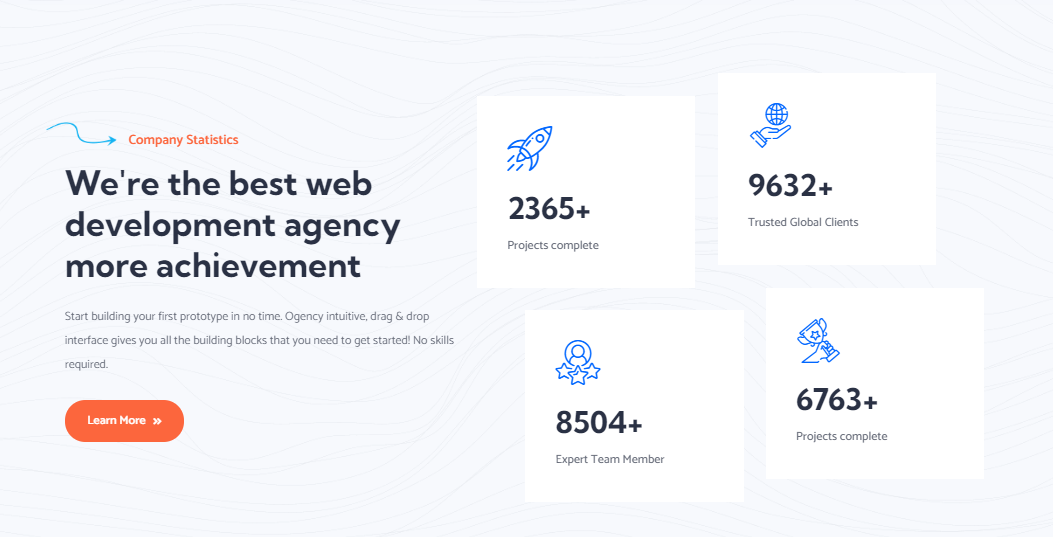
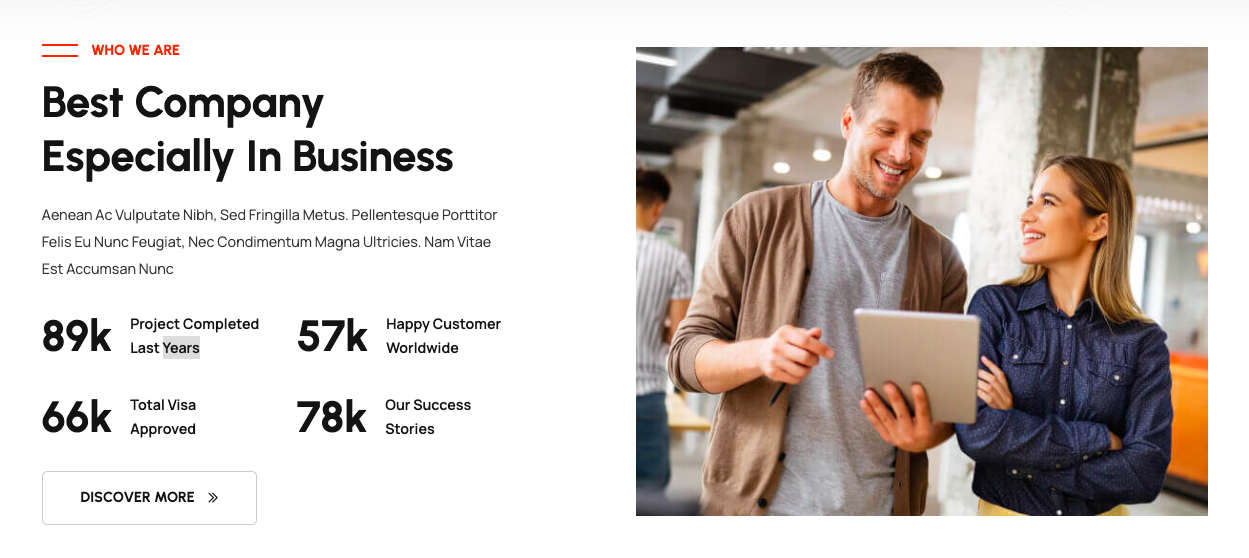
Home page update

diff --git a/public/assets/frontend/sass/style.css b/public/assets/frontend/sass/style.css
@@ -5618,6 +5618,9 @@ About Company CSS
 /*==========================================================================
 Company Two CSS
 ==========================================================================*/
+.company__two{
+    background: var(--color-6);
+}
 .company__two-left-title h2 {
   max-width: 460px;
   margin-bottom: 20px;
@@ -10597,7 +10600,7 @@ Contact Three CSS
   width: 100%;
   height: 640px;
   display: block;
-  filter: grayscale(1);
+  /*filter: grayscale(1);*/
 }
 
 /*==========================================================================

diff --git a/resources/views/welcome.blade.php b/resources/views/welcome.blade.php
@@ -284,41 +284,41 @@
 
     @if(count($latestServices) > 0)
         <div class="portfolio__area section-padding pb-0">
-        <div class="container-fluid p-0">
-            <div class="row mb-60">
-                <div class="col-xl-12">
-                    <div class="portfolio__area-title t-center">
-                        <span class="subtitle-one">What we provide</span>
-                        <h2>Our Best Services</h2>
+            <div class="container-fluid p-0">
+                <div class="row mb-60">
+                    <div class="col-xl-12">
+                        <div class="portfolio__area-title t-center">
+                            <span class="subtitle-one">What we provide</span>
+                            <h2>Our Best Services</h2>
+                        </div>
                     </div>
                 </div>
-            </div>
-            <div class="row">
-                <div class="col-xl-12">
-                    <div class="portfolio dark__image">
-                        @foreach(@$latestServices as $index=>$service)
-                            <div class="portfolio-item {{$index==1?'active':''}}">
-                            <img src="{{asset('/images/service/thumb/thumb_'.@$service->banner_image)}}" alt="">
-                            <div class="portfolio-item-inner">
-                                <div class="portfolio-item-inner-title">
-                                    <h4>{{ucwords(@$service->title)}}</h4>
-                                    <span>Life International</span>
-                                </div>
-                                <div class="portfolio-item-inner-icon">
-                                    <a href="{{route('service.single',$service->slug)}}"><i class="fal fa-long-arrow-up"></i></a>
+                <div class="row">
+                    <div class="col-xl-12">
+                        <div class="portfolio dark__image">
+                            @foreach(@$latestServices as $index=>$service)
+                                <div class="portfolio-item {{$index==1?'active':''}}">
+                                <img src="{{asset('/images/service/thumb/thumb_'.@$service->banner_image)}}" alt="">
+                                <div class="portfolio-item-inner">
+                                    <div class="portfolio-item-inner-title">
+                                        <h4>{{ucwords(@$service->title)}}</h4>
+                                        <span>Life International</span>
+                                    </div>
+                                    <div class="portfolio-item-inner-icon">
+                                        <a href="{{route('service.single',$service->slug)}}"><i class="fal fa-long-arrow-up"></i></a>
+                                    </div>
                                 </div>
                             </div>
+                            @endforeach
                         </div>
-                        @endforeach
                     </div>
                 </div>
             </div>
         </div>
-    </div>
     @endif
 
     @if(@$recruitments[0]->heading)
-        <div class="work__area section-padding pb-0">
+        <div class="work__area section-padding">
             <div class="container">
                 <div class="row mb-70">
                     <div class="col-xl-12">
@@ -346,6 +346,95 @@
             </div>
         </div>
     @endif
+    @if(!empty($homepage_info->why_heading))
+        <div class="company__two dark__image section-padding">
+            <div class="container">
+                <div class="row align-items-center">
+                    <div class="col-xl-6 col-lg-7 lg-mb-30">
+                        <div class="company__two-left">
+                            <div class="company__two-left-title">
+                                <span class="subtitle-one">{{ucwords(@$homepage_info->why_subheading)}}</span>
+                                <h2>{{ucwords(@$homepage_info->why_heading)}}</h2>
+                                <p>{{ucfirst(@$homepage_info->why_description)}}</p>
+                            </div>
+                            <div class="company__two-left-skill">
+                                <div class="company__two-left-skill-item">
+                                    <h2><span class="counter">{{@$homepage_info->project_completed ?? '450'}}</span></h2>
+                                    <h6>Project Completed Overall</h6>
+                                </div>
+                                <div class="company__two-left-skill-item">
+                                    <h2><span class="counter">{{@$homepage_info->visa_approved ?? '340'}}</span></h2>
+                                    <h6>Total Visa Approved</h6>
+                                </div>
+                            </div>
+                            <div class="company__two-left-skill">
+                                <div class="company__two-left-skill-item">
+                                    <h2><span class="counter">{{@$homepage_info->happy_clients}}</span></h2>
+                                    <h6>Happy Clients All Over</h6>
+                                </div>
+                                <div class="company__two-left-skill-item">
+                                    <h2><span class="counter">{{@$homepage_info->success_stories}}</span></h2>
+                                    <h6>Our Success Stories</h6>
+                                </div>
+                            </div>
+                            @if(@$homepage_info->why_button)
+                                <a class="btn-two" href="{{@$homepage_info->why_link}}">{{@$homepage_info->why_button}}<i class="far fa-chevron-double-right"></i></a>
+                            @endif
+                        </div>
+                    </div>
+                    <div class="col-xl-6 col-lg-5">
+                        <div class="company__two-right dark__image t-right">
+                            <img class="img__full" src="{{asset('/images/home/welcome/'.@$homepage_info->what_image5)}}" alt="">
+                        </div>
+                    </div>
+                </div>
+            </div>
+        </div>
+    @endif
+
+    @if(@$setting_data->grievance_heading)
+        <div class="contact__three section-padding">
+            <div class="container">
+                <div class="row align-items-center">
+                    <div class="col-xl-6 col-lg-6 lg-mb-30">
+                        <div class="contact__three-left mr-40 xl-mr-0">
+                            <div class="contact__three-left-map">
+                                @if(@$setting_data->google_map)
+                                    <iframe src="{{@$setting_data->google_map}}" style="border:0;" allowfullscreen="" loading="lazy"></iframe>
+                                @endif
+                            </div>
+                        </div>
+                    </div>
+                    <div class="col-xl-6 col-lg-6">
+                        <div class="contact__three-righ">
+                            <div class="contact__three-right-title">
+                                <span class="subtitle-one">Life International Overseas</span>
+                                <h2 class="mb-30">{{ucwords(@$setting_data->grievance_heading)}}</h2>
+                            </div>
+                            <div class="contact__three-right-form">
+                                <form>
+                                    <div class="row">
+                                        <div class="col-md-12">
+                                            <div class="about__one-right-title">
+                                                <p> {{ ucfirst(@$setting_data->grievance_description) }}</p>
+                                            </div>
+                                            @if(@$setting_data->grievance_button)
+                                                <div class="contact__two-right-form-item">
+                                                    <a href="{{@$setting_data->grievance_link}}" class="btn-one" type="submit">
+                                                        {{ucwords(@$setting_data->grievance_button)}} <i class="far fa-chevron-double-right"></i></a>
+                                                </div>
+                                            @endif
+                                        </div>
+                                    </div>
+                                </form>
+                            </div>
+                        </div>
+                    </div>
+                </div>
+            </div>
+        </div>
+    @endif
+
 
     <div class="testimonial__area section-padding">
         <img class="testimonial__area-shape dark-n" src="assets/img/shape/testimonial.png" alt="">
@@ -442,92 +531,6 @@
         </div>
     </div>
     <!-- Testimonial Area End -->
-    <!-- Get In Touch Start End -->
-    <div class="getIn__touch section-padding" data-background="assets/img/pages/getInTouch.jpg">
-        <img class="getIn__touch-shape left-right-animate2" src="assets/img/shape/getInTouch.png" alt="">
-        <div class="container">
-            <div class="row">
-                <div class="col-xl-6 col-lg-5 lg-mb-30">
-                    <div class="getIn__touch-left">
-                        <div class="getIn__touch-left-title">
-                            <span class="subtitle-one">Get In Touch</span>
-                            <h2>Free Consultation</h2>
-                        </div>
-                        <div class="getIn__touch-left-form">
-                            <form action="#">
-                                <div class="mt-25">
-                                    <input type="text" name="name" placeholder="Full Name" required="required">
-                                </div>
-                                <div class="mt-25">
-                                    <input type="email" name="email" placeholder="Email Address" required="required">
-                                </div>
-                                <div class="mt-25">
-                                    <input type="text" name="subject" placeholder="Subject" required="required">
-                                </div>
-                                <div class="mt-25">
-                                    <button class="btn-one" type="submit">Free Consulting</button>
-                                </div>
-                            </form>
-                        </div>
-                    </div>
-                </div>
-                <div class="col-xl-6 col-lg-7">
-                    <div class="getIn__touch-right">
-                        <div class="getIn__touch-right-title">
-                            <h2>We serving 30% Of Global 600 Companies</h2>
-                            <p>Aenean a felis consequat, varius orci ut, varius metus. Donec iaculis leo turpis, vitae sagittis massa luctus feugiat. Donec vel sodales dui,</p>
-                        </div>
-                        <div class="getIn__touch-right-bottom">
-                            <div class="getIn__touch-right-bottom-text">
-                                <h4>client satisfaction in the globaly</h4>
-                            </div>
-                            <div class="getIn__touch-right-bottom-shape">
-                                <img src="assets/img/icon/getInTouch.png" alt="">
-                            </div>
-                            <div class="getIn__touch-right-bottom-image">
-                                <ul>
-                                    <li><img src="assets/img/avatar/avatar-7.jpg" alt=""></li>
-                                    <li><img src="assets/img/avatar/avatar-5.jpg" alt=""></li>
-                                    <li><img src="assets/img/avatar/avatar-6.jpg" alt=""></li>
-                                    <li><img src="assets/img/avatar/avatar-4.jpg" alt=""></li>
-                                </ul>
-                            </div>
-                        </div>
-                    </div>
-                </div>
-            </div>
-        </div>
-    </div>
-    <!-- Get In Touch Area End -->
-    <!-- Emargency Help Area Start -->
-    <div class="container">
-        <div class="row">
-            <div class="col-xl-5"></div>
-            <div class="col-xl-7">
-                <div class="help__area">
-                    <div class="help__area-item">
-                        <div class="help__area-item-icon icon-animation">
-                            <i class="fal fa-phone-alt"></i>
-                        </div>
-                        <div class="help__area-item-info">
-                            <span class="text-three">Emargency Help</span>
-                            <h5><a href="tel:+012652689523">+012 652 689 523</a></h5>
-                        </div>
-                    </div>
-                    <div class="help__area-item">
-                        <div class="help__area-item-icon">
-                            <i class="fal fa-envelope-open-text"></i>
-                        </div>
-                        <div class="help__area-item-info">
-                            <span class="text-three">Email drop Us</span>
-                            <h5><a href="mailto:conbix@gmail.com">conbix@gmail.com</a></h5>
-                        </div>
-                    </div>
-                </div>
-            </div>
-        </div>
-    </div>
-    <!-- Emargency Help Area End -->
     <!-- Blog Area Start -->
     <div class="blog__one dark__image section-padding">
         <div class="container">

diff --git a/resources/views/backend/home/includes/why_us_tab.blade.php b/resources/views/backend/home/includes/why_us_tab.blade.php
@@ -16,7 +16,7 @@
                         </figure>
                         <div class="position-relative mb-3">
                             <label class="form-label">Heading <span class="text-muted text-danger">*</span></label>
-                            <input type="text" class="form-control" maxlength="55" name="why_heading" value="{{@$homesettings->why_heading}}"
+                            <input type="text" class="form-control" maxlength="35" name="why_heading" value="{{@$homesettings->why_heading}}"
                                    placeholder="Enter heading" required>
                             <div class="invalid-feedback">
                                 Please enter the heading.
@@ -24,7 +24,7 @@
                         </div>
                         <div class="position-relative mb-3">
                             <label class="form-label">SubHeading</label>
-                            <input type="text" class="form-control" maxlength="20" name="why_subheading" value="{{@$homesettings->why_subheading}}"
+                            <input type="text" class="form-control" maxlength="30" name="why_subheading" value="{{@$homesettings->why_subheading}}"
                                    placeholder="Enter subheading">
                             <div class="invalid-feedback">
                                 Please enter the heading.
@@ -33,7 +33,7 @@
 
                         <div class="position-relative mb-3">
                             <label class="form-label">Description <span class="text-muted text-danger">*</span></label>
-                            <textarea class="form-control" maxlength="660" name="why_description" placeholder="Enter why us description" rows="4" required>{{@$homesettings->why_description}}</textarea>
+                            <textarea class="form-control" maxlength="150" name="why_description" placeholder="Enter why us description" rows="4" required>{{@$homesettings->why_description}}</textarea>
                             <div class="invalid-tooltip">
                                 Please enter the  description.
                             </div>
@@ -41,7 +41,7 @@
 
                         <div class="position-relative mb-3">
                             <label class="form-label">Button</label>
-                            <input type="text" class="form-control" maxlength="50" name="why_button" value="{{@$homesettings->why_button}}"
+                            <input type="text" class="form-control" maxlength="30" name="why_button" value="{{@$homesettings->why_button}}"
                                    placeholder="Enter button text">
                             <div class="invalid-feedback">
                                 Please enter the heading.
@@ -56,7 +56,23 @@
                                 Please enter the heading.
                             </div>
                         </div>
+                        <div class="col-md-9">
+                            <div>
+                                <img id="current-sliderlist-5-img" src="<?php if(!empty(@$homesettings->what_image5)){ echo '/images/home/welcome/'.@$homesettings->what_image5; } else{  echo '/images/default-image.jpg'; } ?>" class="position-relative img-fluid img-thumbnail blog-feature-image" >
+                                <input  type="file" accept="image/png, image/jpeg" hidden
+                                        id="sliderlist-5-image" onchange="loadbasicFile('sliderlist-5-image','current-sliderlist-5-img',event)" name="what_image5" {{(@$homesettings->what_image5 !== null) ? "":"required" }}
+                                        class="profile-foreground-img-file-input" >
+                                <figcaption class="figure-caption"> Image for current box. (SIZE: 600px X 500px)</figcaption>
+                                <div class="invalid-feedback" >
+                                    Please select a image.
+                                </div>
+                                <label for="sliderlist-5-image" class="profile-photo-edit btn btn-light feature-image-button">
+                                    <i class="ri-image-edit-line align-bottom me-1"></i> Add Image
+                                </label>
+                            </div>
+                        </div>
                     </div>
+
 
                     <!-- end card body -->
                 </div>
@@ -71,7 +87,6 @@
                         <h5 class="card-title mb-0">Site Statistics</h5>
                     </div>
                     <div class="card-body">
-
                         <div class="position-relative mb-3">
                             <label class="form-label">Project completed <span class="text-muted text-danger">*</span></label>
                             <input type="number" class="form-control" name="project_completed" value="{{@$homesettings->project_completed}}"

diff --git a/resources/views/backend/home/index.blade.php b/resources/views/backend/home/index.blade.php
@@ -22,7 +22,7 @@
         }
 
         .feature-image-button{
-            position: absolute;
+            /*position: absolute;*/
             top: 25%;
         }
 
@@ -117,12 +117,12 @@
                                                 General Grievance
                                             </a>
                                         </li>
-                                        <li class="nav-item">
-                                            <a class="nav-link fw-semibold" data-bs-toggle="tab" href="#simple-what-makes-us-action"
-                                               role="tab">
-                                                What makes us different?
-                                            </a>
-                                        </li>
+{{--                                        <li class="nav-item">--}}
+{{--                                            <a class="nav-link fw-semibold" data-bs-toggle="tab" href="#simple-what-makes-us-action"--}}
+{{--                                               role="tab">--}}
+{{--                                                What makes us different?--}}
+{{--                                            </a>--}}
+{{--                                        </li>--}}
 
                                         <li class="nav-item">
                                             <a class="nav-link fw-semibold" data-bs-toggle="tab" href="#simple-why-us-action"
@@ -252,7 +252,7 @@
 
                            @include('backend.home.includes.mission_vision_tab')
 
-                           @include('backend.home.includes.what_makes_us_tab')
+{{--                           @include('backend.home.includes.what_makes_us_tab')--}}
 
                            @include('backend.home.includes.why_us_tab')
 

diff --git a/app/Http/Controllers/HomePageController.php b/app/Http/Controllers/HomePageController.php
@@ -355,6 +355,21 @@ class HomePageController extends Controller
         $update_theme->why_button           =  $request->input('why_button');
         $update_theme->why_link             =  $request->input('why_link');
         $update_theme->updated_by           =  Auth::user()->id;
+        $oldimage5                          = $update_theme->what_image5;
+
+        if (!empty($request->file('what_image5'))){
+            $path    = base_path().'/public/images/home/welcome/';
+            $image = $request->file('what_image5');
+            $name1 = uniqid().'_why_us_'.$image->getClientOriginalName();
+            $moved          = Image::make($image->getRealPath())->fit(600, 500)->orientate()->save($path.$name1);
+            if ($moved){
+                $update_theme->what_image5 = $name1;
+                if (!empty($oldimage1) && file_exists(public_path().'/images/home/welcome/'.$oldimage1)){
+                    @unlink(public_path().'/images/home/welcome/'.$oldimage1);
+                }
+            }
+        }
+
 
         $status=$update_theme->update();
         if($status){
